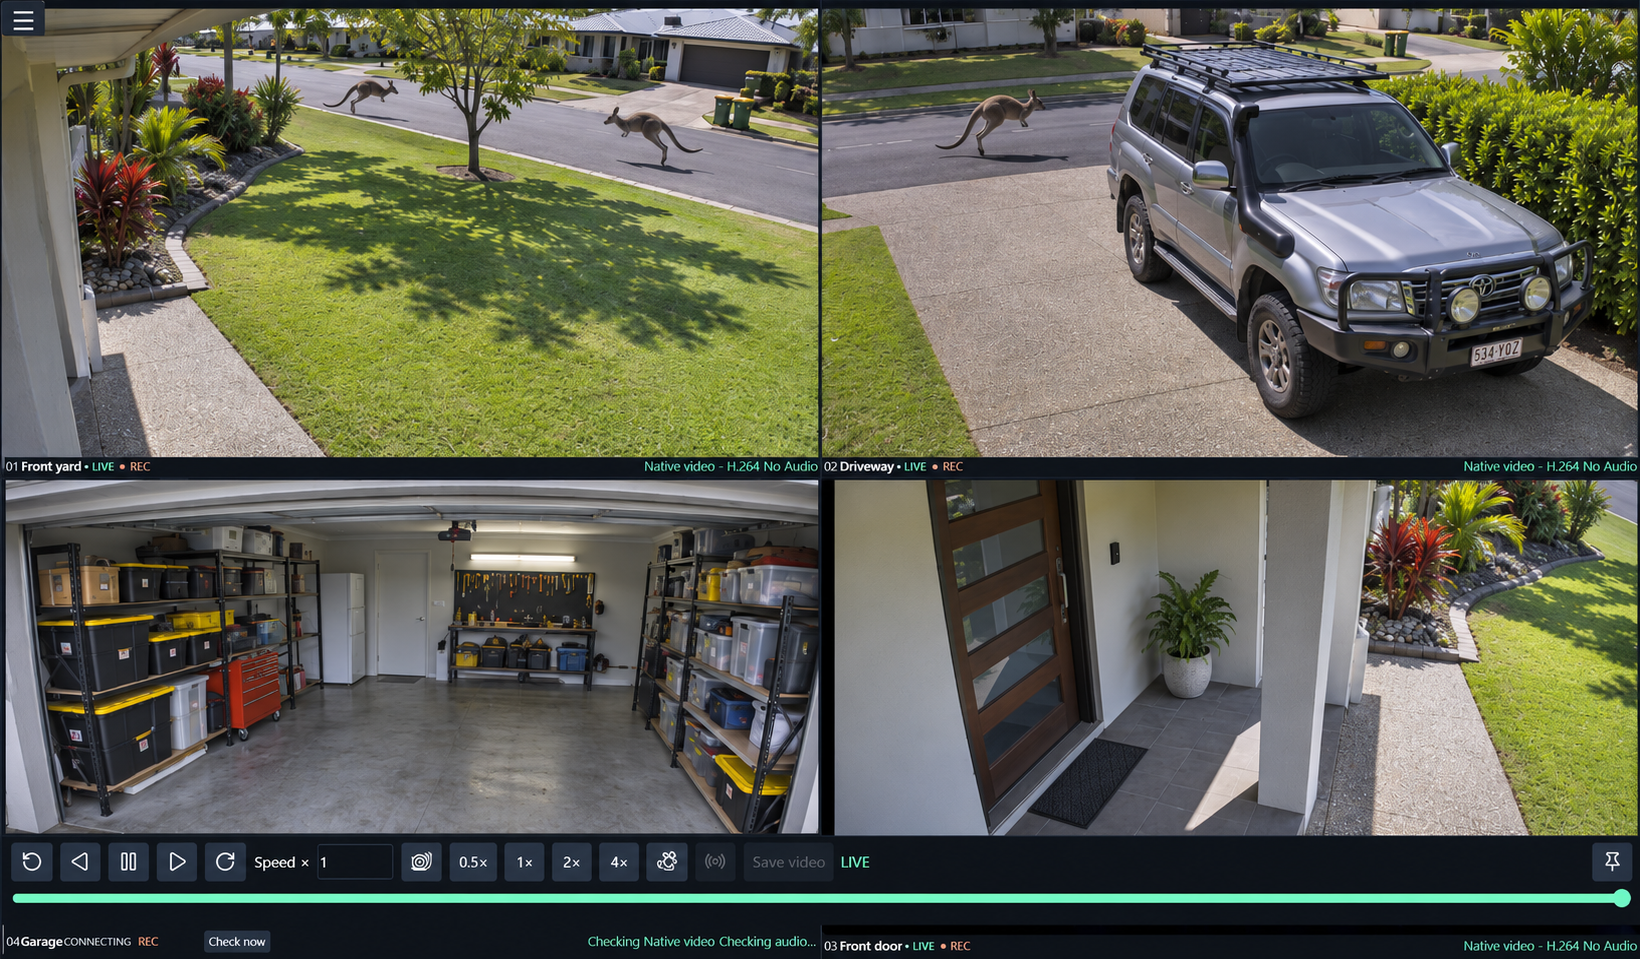
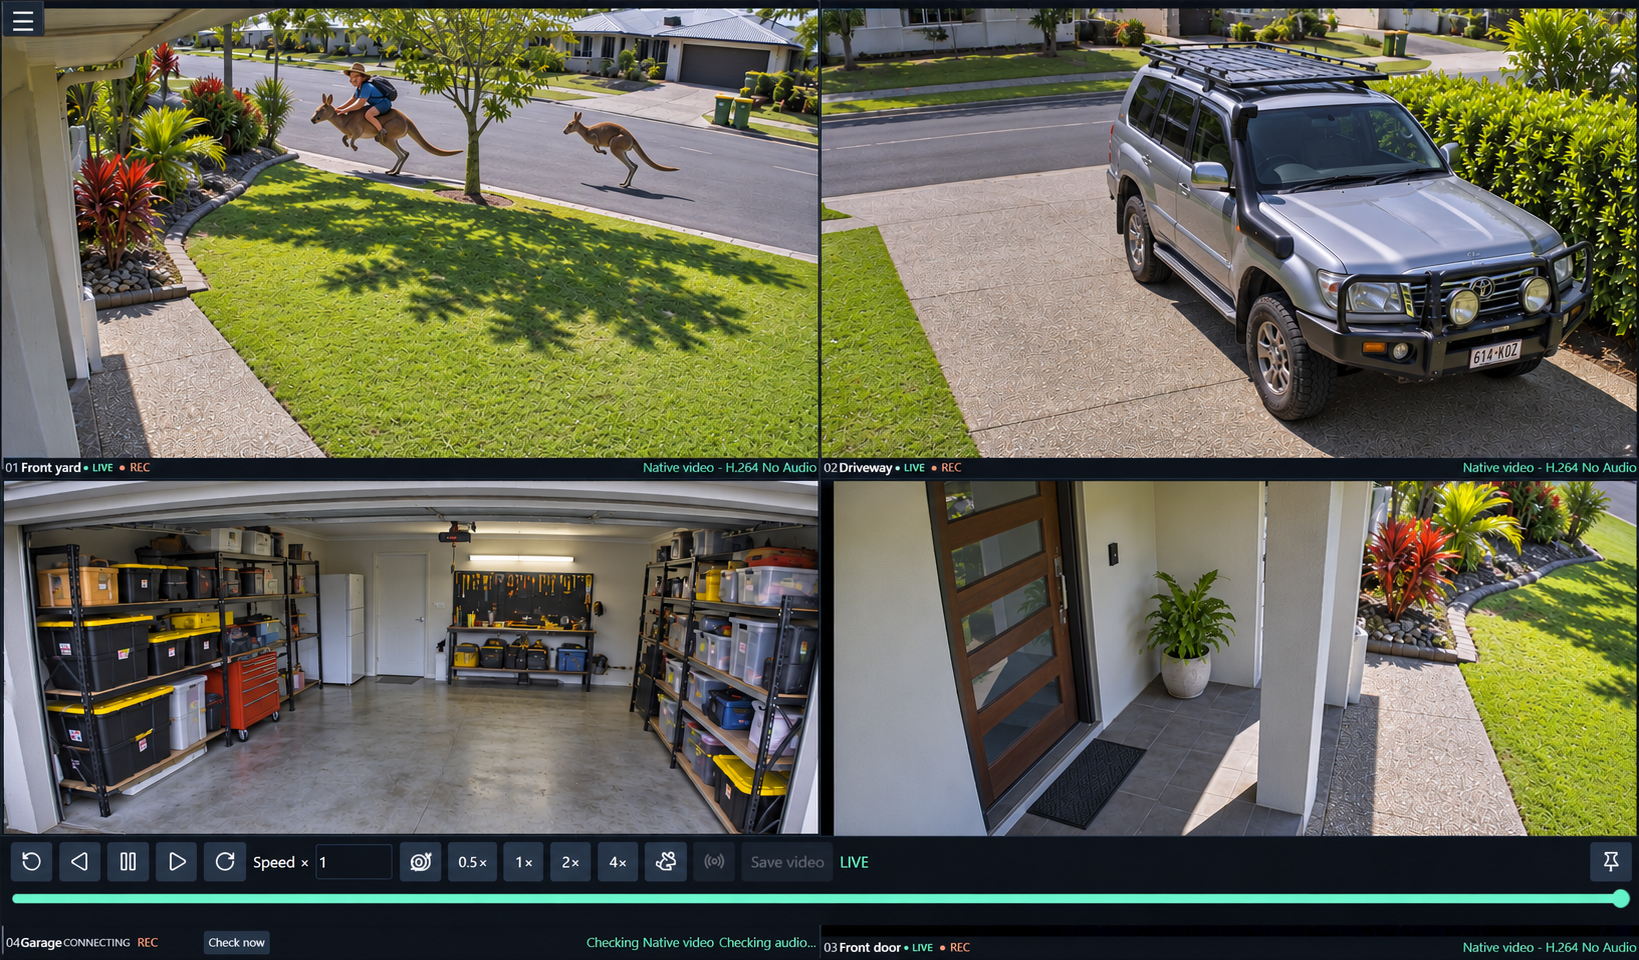
Use the revised camera grid image

diff --git a/securitycameraviewer/index.html b/securitycameraviewer/index.html
@@ -38,7 +38,7 @@
             </div>
 
             <figure class="viewer-preview" aria-labelledby="viewer-caption">
-                <img src="camera-grid.png" width="1640" height="959" alt="Four camera views showing the front yard and driveway with kangaroos, the garage, and the front door. Playback controls appear below the grid.">
+                <img src="camera-grid.png" width="1639" height="960" alt="Four camera views show two kangaroos, one with a rider, beyond the front yard, plus the driveway, garage, and front door. Playback controls appear below the grid.">
                 <figcaption id="viewer-caption">Security Camera Viewer with four camera views and a playback timeline.</figcaption>
             </figure>
         </section>
